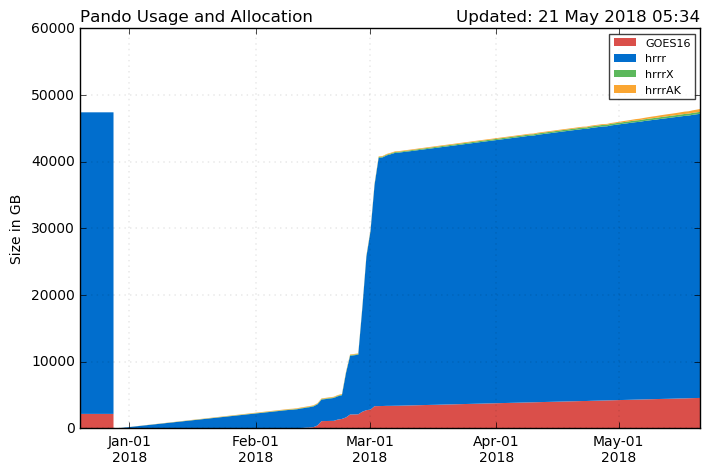
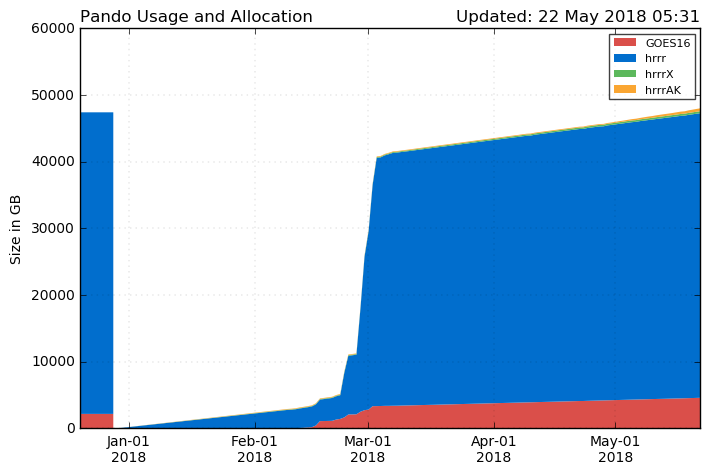
updates

diff --git a/hrrr_fires.html b/hrrr_fires.html
@@ -62,19 +62,6 @@ This page is created dynamically in the scirpt /oper/HRRR_fires/manager.py
         </div>
         </div></td><td>Not Reported</td> <td>82,461</td><td>Not Reported</td></tr><tr><td>
         <div class="btn-group" role="group" aria-label="..." style="padding-bottom:3px">
-        <a href="http://home.chpc.utah.edu/~u0553130/Brian_Blaylock/cgi-bin/photo_viewer_fire.cgi?FIRE=CALDWELL" class="btn btn-warning" style="width:175px"><b><i class="fab fa-gripfire"></i> CALDWELL</b></a>  <div class="btn-group" role="group">
-        <a class="btn btn-warning dropdown-toggle" data-toggle="dropdown" aria-haspopup="true" aria-expanded="false">
-        <i class="far fa-clock"></i>
-        <span class="caret"></span>
-        </a>
-        <ul class="dropdown-menu">
-        <li>Other Data/Figures:</li>
-        <li><a href="http://home.chpc.utah.edu/~u0553130/PhD/HRRR_fires/CALDWELL">More Plots</a></li>
-        <li><a href="http://home.chpc.utah.edu/~u0553130/Brian_Blaylock/cgi-bin/hrrr_fires_alert.cgi?fire=CALDWELL">Past Wind Events</a></li>
-        </ul>
-        </div>
-        </div></td><td>Texas</td> <td>2,450</td><td>16-May-18</td></tr><tr><td>
-        <div class="btn-group" role="group" aria-label="..." style="padding-bottom:3px">
         <a href="http://home.chpc.utah.edu/~u0553130/Brian_Blaylock/cgi-bin/photo_viewer_fire.cgi?FIRE=HAPPY" class="btn btn-warning" style="width:175px"><b><i class="fab fa-gripfire"></i> HAPPY</b></a>  <div class="btn-group" role="group">
         <a class="btn btn-warning dropdown-toggle" data-toggle="dropdown" aria-haspopup="true" aria-expanded="false">
         <i class="far fa-clock"></i>
@@ -88,19 +75,6 @@ This page is created dynamically in the scirpt /oper/HRRR_fires/manager.py
         </div>
         </div></td><td>Arizona</td> <td>1,700</td><td>15-May-18</td></tr><tr><td>
         <div class="btn-group" role="group" aria-label="..." style="padding-bottom:3px">
-        <a href="http://home.chpc.utah.edu/~u0553130/Brian_Blaylock/cgi-bin/photo_viewer_fire.cgi?FIRE=MALLARD" class="btn btn-warning" style="width:175px"><b><i class="fab fa-gripfire"></i> MALLARD</b></a>  <div class="btn-group" role="group">
-        <a class="btn btn-warning dropdown-toggle" data-toggle="dropdown" aria-haspopup="true" aria-expanded="false">
-        <i class="far fa-clock"></i>
-        <span class="caret"></span>
-        </a>
-        <ul class="dropdown-menu">
-        <li>Other Data/Figures:</li>
-        <li><a href="http://home.chpc.utah.edu/~u0553130/PhD/HRRR_fires/MALLARD">More Plots</a></li>
-        <li><a href="http://home.chpc.utah.edu/~u0553130/Brian_Blaylock/cgi-bin/hrrr_fires_alert.cgi?fire=MALLARD">Past Wind Events</a></li>
-        </ul>
-        </div>
-        </div></td><td>Texas</td> <td>75,530</td><td>08-May-18</td></tr><tr><td>
-        <div class="btn-group" role="group" aria-label="..." style="padding-bottom:3px">
         <a href="http://home.chpc.utah.edu/~u0553130/Brian_Blaylock/cgi-bin/photo_viewer_fire.cgi?FIRE=PINERY" class="btn btn-warning" style="width:175px"><b><i class="fab fa-gripfire"></i> PINERY</b></a>  <div class="btn-group" role="group">
         <a class="btn btn-warning dropdown-toggle" data-toggle="dropdown" aria-haspopup="true" aria-expanded="false">
         <i class="far fa-clock"></i>
@@ -112,46 +86,7 @@ This page is created dynamically in the scirpt /oper/HRRR_fires/manager.py
         <li><a href="http://home.chpc.utah.edu/~u0553130/Brian_Blaylock/cgi-bin/hrrr_fires_alert.cgi?fire=PINERY">Past Wind Events</a></li>
         </ul>
         </div>
-        </div></td><td>Not Reported</td> <td>1,200</td><td>Not Reported</td></tr><tr><td>
-        <div class="btn-group" role="group" aria-label="..." style="padding-bottom:3px">
-        <a href="http://home.chpc.utah.edu/~u0553130/Brian_Blaylock/cgi-bin/photo_viewer_fire.cgi?FIRE=RATTLESNAKE" class="btn btn-warning" style="width:175px"><b><i class="fab fa-gripfire"></i> RATTLESNAKE</b></a>  <div class="btn-group" role="group">
-        <a class="btn btn-warning dropdown-toggle" data-toggle="dropdown" aria-haspopup="true" aria-expanded="false">
-        <i class="far fa-clock"></i>
-        <span class="caret"></span>
-        </a>
-        <ul class="dropdown-menu">
-        <li>Other Data/Figures:</li>
-        <li><a href="http://home.chpc.utah.edu/~u0553130/PhD/HRRR_fires/RATTLESNAKE">More Plots</a></li>
-        <li><a href="http://home.chpc.utah.edu/~u0553130/Brian_Blaylock/cgi-bin/hrrr_fires_alert.cgi?fire=RATTLESNAKE">Past Wind Events</a></li>
-        </ul>
-        </div>
-        </div></td><td>Not Reported</td> <td>26,072</td><td>Not Reported</td></tr><tr><td>
-        <div class="btn-group" role="group" aria-label="..." style="padding-bottom:3px">
-        <a href="http://home.chpc.utah.edu/~u0553130/Brian_Blaylock/cgi-bin/photo_viewer_fire.cgi?FIRE=SAN_LUIS" class="btn btn-warning" style="width:175px"><b><i class="fab fa-gripfire"></i> SAN LUIS</b></a>  <div class="btn-group" role="group">
-        <a class="btn btn-warning dropdown-toggle" data-toggle="dropdown" aria-haspopup="true" aria-expanded="false">
-        <i class="far fa-clock"></i>
-        <span class="caret"></span>
-        </a>
-        <ul class="dropdown-menu">
-        <li>Other Data/Figures:</li>
-        <li><a href="http://home.chpc.utah.edu/~u0553130/PhD/HRRR_fires/SAN_LUIS">More Plots</a></li>
-        <li><a href="http://home.chpc.utah.edu/~u0553130/Brian_Blaylock/cgi-bin/hrrr_fires_alert.cgi?fire=SAN LUIS">Past Wind Events</a></li>
-        </ul>
-        </div>
-        </div></td><td>New Mexico</td> <td>20,586</td><td>16-May-18</td></tr><tr><td>
-        <div class="btn-group" role="group" aria-label="..." style="padding-bottom:3px">
-        <a href="http://home.chpc.utah.edu/~u0553130/Brian_Blaylock/cgi-bin/photo_viewer_fire.cgi?FIRE=TINDER" class="btn btn-warning" style="width:175px"><b><i class="fab fa-gripfire"></i> TINDER</b></a>  <div class="btn-group" role="group">
-        <a class="btn btn-warning dropdown-toggle" data-toggle="dropdown" aria-haspopup="true" aria-expanded="false">
-        <i class="far fa-clock"></i>
-        <span class="caret"></span>
-        </a>
-        <ul class="dropdown-menu">
-        <li>Other Data/Figures:</li>
-        <li><a href="http://home.chpc.utah.edu/~u0553130/PhD/HRRR_fires/TINDER">More Plots</a></li>
-        <li><a href="http://home.chpc.utah.edu/~u0553130/Brian_Blaylock/cgi-bin/hrrr_fires_alert.cgi?fire=TINDER">Past Wind Events</a></li>
-        </ul>
-        </div>
-        </div></td><td>Not Reported</td> <td>16,309</td><td>Not Reported</td></tr><tr><td>
+        </div></td><td>Arizona</td> <td>1,200</td><td>12-May-18</td></tr><tr><td>
         <div class="btn-group" role="group" aria-label="..." style="padding-bottom:3px">
         <a href="http://home.chpc.utah.edu/~u0553130/Brian_Blaylock/cgi-bin/photo_viewer_fire.cgi?FIRE=TYE_RIVER" class="btn btn-warning" style="width:175px"><b><i class="fab fa-gripfire"></i> TYE RIVER</b></a>  <div class="btn-group" role="group">
         <a class="btn btn-warning dropdown-toggle" data-toggle="dropdown" aria-haspopup="true" aria-expanded="false">
@@ -182,7 +117,7 @@ This page is created dynamically in the scirpt /oper/HRRR_fires/manager.py
     <p><a class='btn btn-default' style='width:100%' href="https://rmgsc.cr.usgs.gov/outgoing/GeoMAC/ActiveFirePerimeters.kml" target="_blank">Active Fire KMZ USGS <i class="fa fa-external-link-alt"></i></a>
     <p><a class='btn btn-default' style='width:100%' href="https://earthdata.nasa.gov/earth-observation-data/near-real-time/firms/active-fire-data" target="_blank">Active Fire KMZ EarthData <i class="fa fa-external-link-alt"></i></a>
     <p><a class='btn btn-success' style='width:100%' href="https://rmgsc.cr.usgs.gov/outgoing/GeoMAC/current_year_fire_data/current_year_all_states/" target="_blank">Active Fire Perimeter ShapeFile <i class="fa fa-external-link-alt"></i></a>
-    <p><a class='btn btn-success' style='width:100%' href="https://fsapps.nwcg.gov/afm/data/lg_fire/lg_fire_info_2018-05-21.txt" target="_blank">Active Fire Text <i class="fa fa-external-link-alt"></i></a>
+    <p><a class='btn btn-success' style='width:100%' href="https://fsapps.nwcg.gov/afm/data/lg_fire/lg_fire_info_2018-05-22.txt" target="_blank">Active Fire Text <i class="fa fa-external-link-alt"></i></a>
     </div>
 </center>
 </div>

diff --git a/Pando_archive/index.html b/Pando_archive/index.html
@@ -37,7 +37,7 @@
         </div>
   <br>
   <script src='./js/pando_status.js'></script>
-    <center><font size=12> 48.0 TB out of 60 TB</font>
+    <center><font size=12> 48.1 TB out of 60 TB</font>
     <div class="progress" style="max-width:700px;height:35px">
             <div class="progress-bar progress-bar-danger" role="progressbar" style="width:8%">
               <font size=4></font>
@@ -45,7 +45,7 @@
             <div class="progress-bar progress-bar-primary" role="progressbar" style="width:71%">
               <font size=4></font>
             </div>
-            <div class="progress-bar progress-bar-success" role="progressbar" style="width:0%">
+            <div class="progress-bar progress-bar-success" role="progressbar" style="width:1%">
               <font size=4></font>
             </div>
             <div class="progress-bar progress-bar-warning" role="progressbar" style="width:1%">
@@ -64,9 +64,9 @@
         <th style='text-align:center'>Estimated Full Date</th>
       </tr>
       <tr>
-        <td>109.74 GB</td>
-        <td>109</td>
-        <td>07 September 2018</td>
+        <td>102.45 GB</td>
+        <td>116</td>
+        <td>15 September 2018</td>
       </tr>
     </table>
     <table class="table table-bordered" style='text-align:center;max-width:700px'>
@@ -80,14 +80,14 @@
       <tr>
         <th>sfc</th>
         <td>--</td>
-        <td>22.63</td>
-        <td>1.21</td>
-        <td>4.57</td>
+        <td>23.24</td>
+        <td>0.25</td>
+        <td>7.70</td>
       </tr>
       <tr>
         <th>prs</th>
         <td>--</td>
-        <td>3.29</td>
+        <td>3.33</td>
         <td>0.00</td>
         <td>0.00</td>
       </tr>
@@ -100,10 +100,10 @@
       </tr>
       <tr>
         <th>Total</th>
-        <th>16.9 GB</th>
-        <th>25.92 GB</th>
-        <th>1.21 GB</th>
-        <th>4.57 GB</th>
+        <th>17.0 GB</th>
+        <th>26.57 GB</th>
+        <th>0.25 GB</th>
+        <th>7.70 GB</th>
       </tr>
     </table>
 
